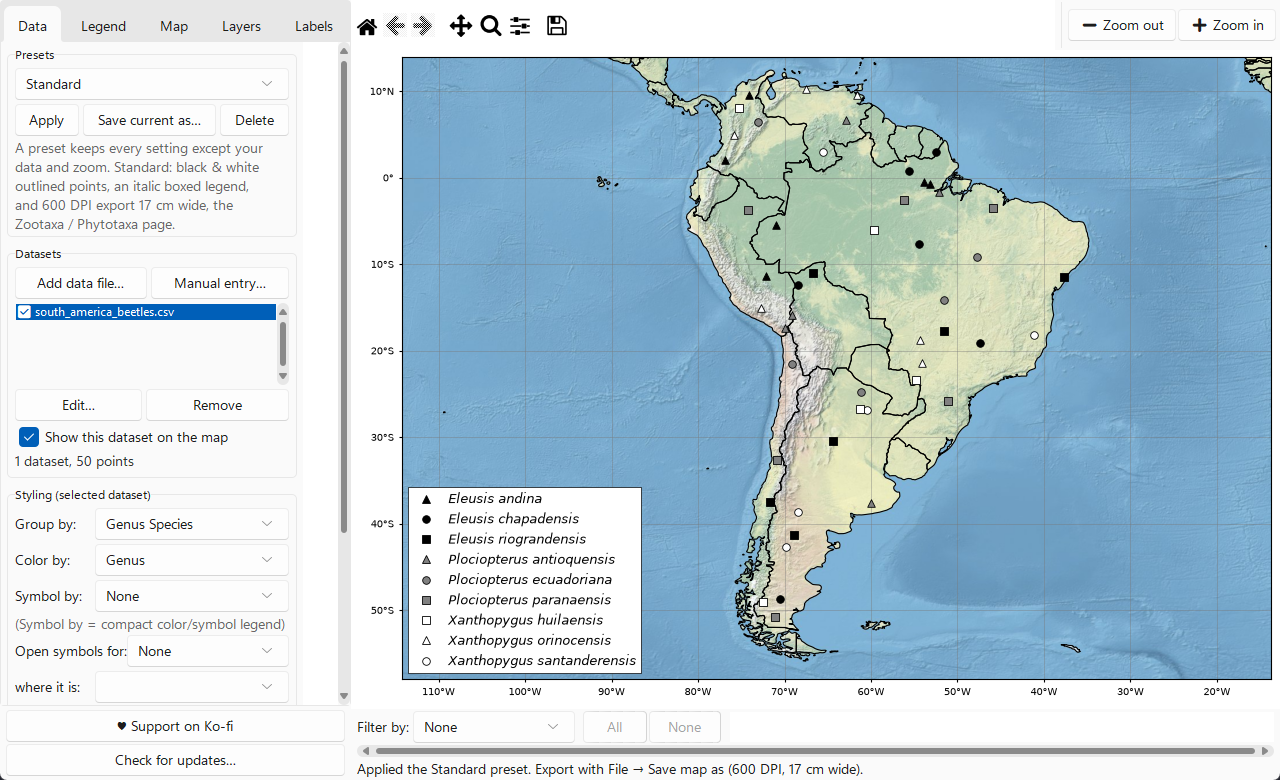
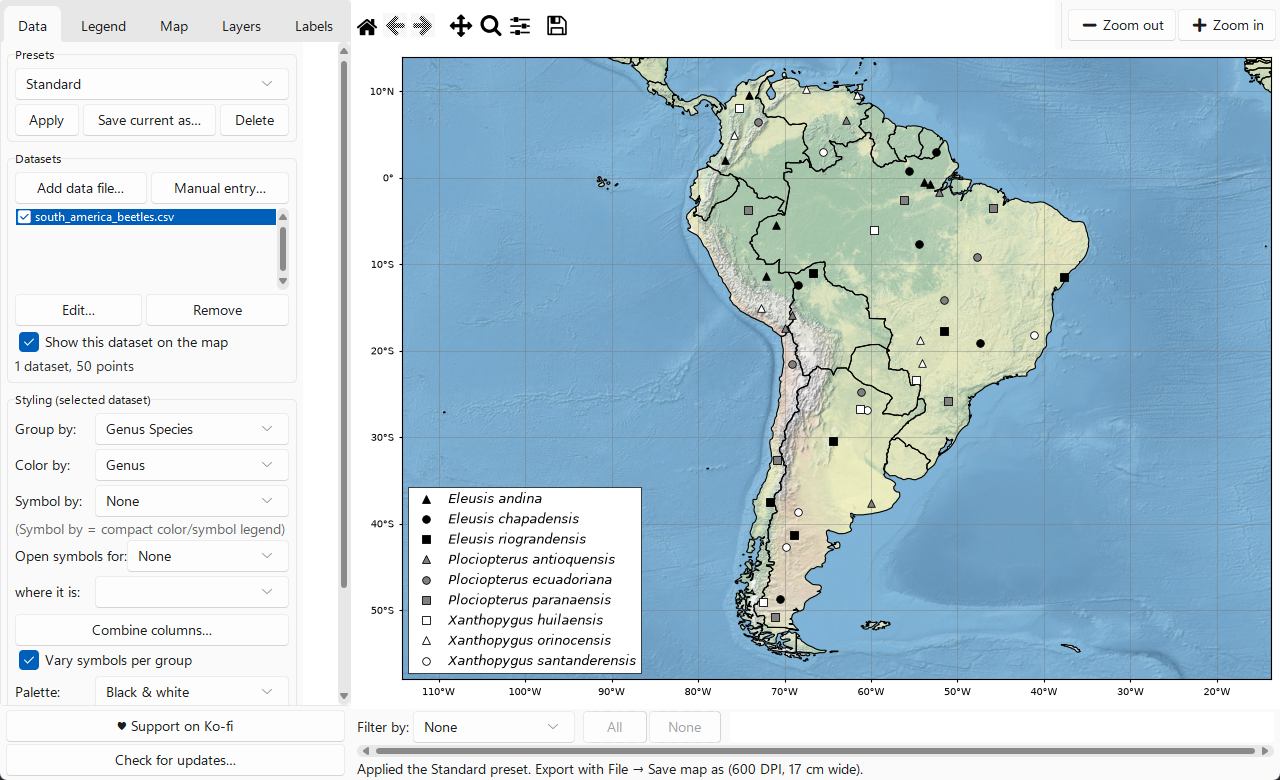
Let the Standard preset be deleted; drop the presets description; 1.32.3
Deleting the built-in Standard preset now works like deleting a saved
one, after the same confirmation. Since it has no file, the deletion is
remembered by a marker in the presets folder, and its name is then free
for a saved preset. With every preset deleted the list is empty, and
Apply and Delete do nothing.

The description under the presets buttons is gone; the README
screenshots of the Data tab are retaken without it.

Changed region(s): [[0.0, 0.1846, 0.25, 0.8923], [0.25, 0.6769, 0.2812, 0.7385]]

diff --git a/pymappr/app.py b/pymappr/app.py
@@ -63,6 +63,7 @@ PUBLICATION_DPI = "600"
 PUBLICATION_WIDTH = JOURNAL_PAGE_WIDTH
 # The built-in preset, listed first; it runs on_publication_style rather
 # than restoring saved values, so it adapts to the data it is applied to.
+# The user may delete it, which hides it for good.
 BUILT_IN_PRESET = "Standard"
 PROJECT_FILETYPES = [("PyMappr project", "*" + PROJECT_EXTENSION),
                      ("All files", "*.*")]
@@ -151,6 +152,7 @@ class PyMapprApp:
         self._clean_snapshot = self._snapshot()
         self._set_title()
         self._presets: dict[str, Path] = {}
+        self._built_in = True
         self._refresh_presets()
 
         # Closing the window autosaves the session for the next launch.
@@ -1311,8 +1313,10 @@ class PyMapprApp:
 
     def _refresh_presets(self, selected: str | None = None) -> None:
         self._presets = dict(presets.list_presets())
-        self.panel.set_preset_names([BUILT_IN_PRESET] + list(self._presets),
-                                    selected or BUILT_IN_PRESET)
+        self._built_in = not presets.built_in_deleted()
+        self.panel.set_preset_names(
+            [BUILT_IN_PRESET] * self._built_in + list(self._presets),
+            selected)
 
     def _framing(self) -> tuple:
         """What decides where the map's coordinates lie: a view saved under
@@ -1323,7 +1327,9 @@ class PyMapprApp:
 
     def on_apply_preset(self) -> None:
         name = self.panel.preset_var.get()
-        if name == BUILT_IN_PRESET:
+        if not name:
+            return
+        if name == BUILT_IN_PRESET and self._built_in:
             self.on_publication_style()
             return
         path = self._presets.get(name)
@@ -1361,12 +1367,13 @@ class PyMapprApp:
         current = self.panel.preset_var.get()
         name = simpledialog.askstring(
             "Save preset", "Preset name:",
-            initialvalue="" if current == BUILT_IN_PRESET else current,
+            initialvalue=("" if current == BUILT_IN_PRESET and self._built_in
+                          else current),
             parent=self.root)
         if not name or not name.strip():
             return
         name = name.strip()
-        if name == BUILT_IN_PRESET:
+        if name == BUILT_IN_PRESET and self._built_in:
             messagebox.showinfo(
                 "Save preset", "That name belongs to the built-in "
                 f"{BUILT_IN_PRESET} preset. Choose another.", parent=self.root)
@@ -1391,11 +1398,9 @@ class PyMapprApp:
 
     def on_delete_preset(self) -> None:
         name = self.panel.preset_var.get()
+        built_in = name == BUILT_IN_PRESET and self._built_in
         path = self._presets.get(name)
-        if path is None:
-            messagebox.showinfo("Delete preset", "The built-in "
-                                f"{BUILT_IN_PRESET} preset cannot be "
-                                "deleted.", parent=self.root)
+        if not built_in and path is None:
             return
         if not messagebox.askyesno(
                 "Delete preset",
@@ -1403,7 +1408,10 @@ class PyMapprApp:
                 "\N{RIGHT DOUBLE QUOTATION MARK}?", parent=self.root):
             return
         try:
-            presets.delete_preset(path)
+            if built_in:
+                presets.delete_built_in()
+            else:
+                presets.delete_preset(path)
         except OSError as exc:
             messagebox.showerror("Delete preset", str(exc), parent=self.root)
         self._refresh_presets()

diff --git a/tests/test_app.py b/tests/test_app.py
@@ -16,7 +16,9 @@ from types import SimpleNamespace
 import matplotlib
 import pytest
 
+from pymappr import app as app_module
 from pymappr.app import PyMapprApp
+from pymappr.files import presets
 from pymappr.files.data_loader import combine_name_columns, load_csv
 from pymappr.files.projects import DatasetEntry
 from pymappr.ui.control_panel import ControlPanel
@@ -134,6 +136,60 @@ def test_the_built_in_preset_is_listed_first_and_selected(panel):
     assert panel.preset_var.get() == "Standard"
     panel.set_preset_names(["Standard", "Mine"], "Mine")
     assert panel.preset_var.get() == "Mine"
+
+
+def test_the_presets_section_has_no_description(panel):
+    labels = [w for w in _tab_widgets(panel, "Data")
+              if isinstance(w, ttk.Label)]
+    assert not any("A preset keeps" in str(w.cget("text")) for w in labels)
+
+
+def test_with_no_presets_left_nothing_is_selected(panel):
+    panel.set_preset_names([])
+    assert panel.preset_box.cget("values") == ""
+    assert panel.preset_var.get() == ""
+
+
+def _preset_app(panel, tmp_path, monkeypatch):
+    """A stand-in app over a real panel, saving presets under *tmp_path*."""
+    monkeypatch.setattr(presets, "config_dir", lambda: tmp_path)
+    monkeypatch.setattr(app_module.messagebox, "askyesno",
+                        lambda *args, **kwargs: True)
+    app = SimpleNamespace(panel=panel, root=None, _presets={},
+                          _built_in=True)
+    app._refresh_presets = lambda selected=None: \
+        PyMapprApp._refresh_presets(app, selected)
+    return app
+
+
+def test_the_built_in_preset_can_be_deleted(panel, tmp_path, monkeypatch):
+    app = _preset_app(panel, tmp_path, monkeypatch)
+    presets.save_preset(presets.preset_path("Mine"), "Mine", {})
+    app._refresh_presets()
+    assert panel.preset_box.cget("values") == ("Standard", "Mine")
+    PyMapprApp.on_delete_preset(app)
+    assert panel.preset_box.cget("values") == ("Mine",)
+    assert panel.preset_var.get() == "Mine"
+    # It stays deleted the next time the list is read.
+    app._refresh_presets()
+    assert panel.preset_box.cget("values") == ("Mine",)
+    assert not app._built_in
+
+
+def test_once_deleted_its_name_is_free_for_a_saved_preset(
+        panel, tmp_path, monkeypatch):
+    app = _preset_app(panel, tmp_path, monkeypatch)
+    presets.delete_built_in()
+    path = presets.preset_path("Standard")
+    presets.save_preset(path, "Standard", {})
+    app._refresh_presets()
+    assert panel.preset_box.cget("values") == ("Standard",)
+    PyMapprApp.on_delete_preset(app)
+    assert not path.exists()
+    assert panel.preset_var.get() == ""
+    # With nothing left, Delete and Apply have nothing to act on.
+    PyMapprApp.on_delete_preset(app)
+    PyMapprApp.on_apply_preset(app)
 
 
 # ------------------------------------------------------- publication style

diff --git a/pymappr/ui/control_panel.py b/pymappr/ui/control_panel.py
@@ -401,17 +401,12 @@ class ControlPanel(ttk.Frame):
             side="left", fill="x", expand=True, padx=(4, 0))
         ttk.Button(row, text="Delete", command=self.app.on_delete_preset).pack(
             side="left", fill="x", expand=True, padx=(4, 0))
-        ttk.Label(sec, text="A preset keeps every setting except your data "
-                            "and zoom. Standard: black & white outlined "
-                            "points, an italic boxed legend, and 600 DPI "
-                            "export 17 cm wide, the Zootaxa / Phytotaxa "
-                            "page.",
-                  wraplength=PANEL_WIDTH - 60,
-                  foreground="#666666").pack(anchor="w")
 
-    def set_preset_names(self, names: list[str], selected: str) -> None:
+    def set_preset_names(self, names: list[str],
+                         selected: str | None = None) -> None:
         self.preset_box.configure(values=names)
-        self.preset_var.set(selected if selected in names else names[0])
+        self.preset_var.set(selected if selected in names
+                            else names[0] if names else "")
 
     def _build_data_section(self, tab) -> None:
         sec = self._section(tab, "Datasets")

diff --git a/pymappr/files/presets.py b/pymappr/files/presets.py
@@ -9,11 +9,15 @@ from pymappr.files.projects import DatasetEntry, config_dir, safe_filename
 
 __all__ = ["PRESET_EXTENSION", "presets_dir", "preset_path", "list_presets",
            "save_preset", "load_preset", "delete_preset",
+           "built_in_deleted", "delete_built_in",
            "settings_from_state", "apply_dataset_style"]
 
 PRESET_EXTENSION = ".pymappr-preset"
 _FORMAT = "pymappr-preset"
 _FORMAT_VERSION = 1
+# Present in the presets folder once the user has deleted the built-in
+# preset, which has no file of its own to remove.
+_BUILT_IN_DELETED = ".built-in-deleted"
 
 # The parts of a project state that belong to this project alone: its data,
 # which dataset is selected, and where the map is zoomed. A preset carries
@@ -90,6 +94,14 @@ def load_preset(path: str | Path) -> tuple[str, dict]:
 
 def delete_preset(path: str | Path) -> None:
     Path(path).unlink()
+
+
+def built_in_deleted() -> bool:
+    return (presets_dir() / _BUILT_IN_DELETED).exists()
+
+
+def delete_built_in() -> None:
+    (presets_dir() / _BUILT_IN_DELETED).touch()
 
 
 # ---------------------------------------------------------------- applying

diff --git a/tests/test_presets.py b/tests/test_presets.py
@@ -49,6 +49,14 @@ def test_a_deleted_preset_is_no_longer_listed():
     assert list_presets() == []
 
 
+def test_deleting_the_built_in_preset_is_remembered_and_lists_nothing():
+    save_preset(presets.preset_path("Mine"), "Mine", {})
+    assert not presets.built_in_deleted()
+    presets.delete_built_in()
+    assert presets.built_in_deleted()
+    assert [name for name, _path in list_presets()] == ["Mine"]
+
+
 def test_a_project_file_is_not_a_preset(tmp_path):
     path = tmp_path / "project.pymappr-preset"
     path.write_text(json.dumps({"format": "pymappr-project", "state": {}}),

diff --git a/pymappr/__init__.py b/pymappr/__init__.py
@@ -1,1 +1,1 @@
-__version__ = "1.32.2"
+__version__ = "1.32.3"
